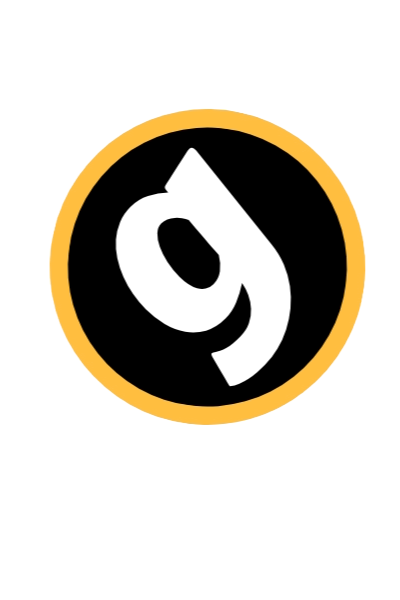
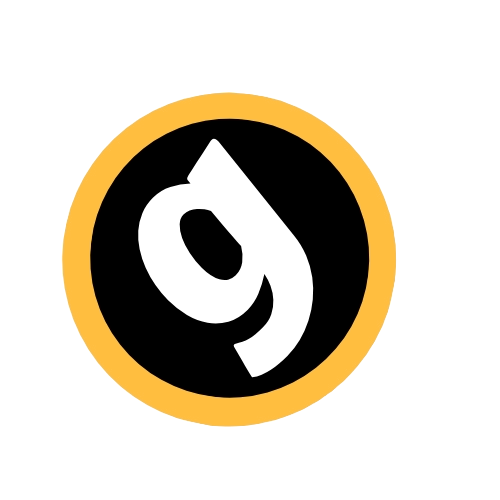
removed title

Changed region(s): [[0.12, 0.18, 0.93, 0.87]]

diff --git a/script.js b/script.js
@@ -55,8 +55,8 @@ const placeData = () => {
     }
   }
 
-  let title = document.querySelector(".title");
-  title.innerHTML = game.name;
+  // let title = document.querySelector(".title");
+  // title.innerHTML = game.name;
 
   let score = document.querySelector(".score");
   score.innerHTML = game.topCriticScore;
@@ -88,7 +88,7 @@ const checkGuess = () => {
   checkRounds();
 
   setTimeout(() => {
-    result.innerHTML = "";
+    result.innerHTML = " ";
     score.style.visibility = "hidden";
     getStuff();
     roundCount++;
@@ -112,11 +112,11 @@ const checkRounds = () => {
   if (roundCount >= 10) {
     const modal = document.querySelector(".modal");
     modal.innerHTML = `GG you got ${playerScore}/10.`;
-    openModal();
+    openGGModal();
   }
 };
 
-const openModal = () => {
+const openGGModal = () => {
   const modal = document.querySelector(".modal");
   modal.showModal();
 };

diff --git a/styles.css b/styles.css
@@ -26,12 +26,10 @@ body{
   background-color: black;
   position: static;
   width: 100%;
-  /* text-align: center; */
   padding: 0;
   margin: 0;
   border-radius: 3px;
   max-height: 2.2rem;
-  /* box-shadow: 5px 5px 5px rgba(233, 206, 206, 0.822) ; */
 }
 
 .logo{
@@ -60,8 +58,8 @@ body{
     line-height: 3.5rem;
     margin-bottom: 1rem;
     position: relative;
-    left: 7vw;
-    top: 2vh;
+    /* left: 7vw;  */
+    top: .3rem; 
 
 }
 

diff --git a/index.html b/index.html
@@ -13,7 +13,6 @@
 <body>
    <div class="info">
     <dialog class="modal">
-        <p></p>
     </dialog>
     <div class="banner">
         <div class="menu-btn">
@@ -22,7 +21,7 @@
         <img class="logo" src="./GuessUh.png" alt="">
     </div>
     <div class="title-score">
-        <h2 class="title"></h2>
+        <!-- <h2 class="title"></h2> -->
         <div class="score"></div>
     </div>
         <img id="pic" src="">
